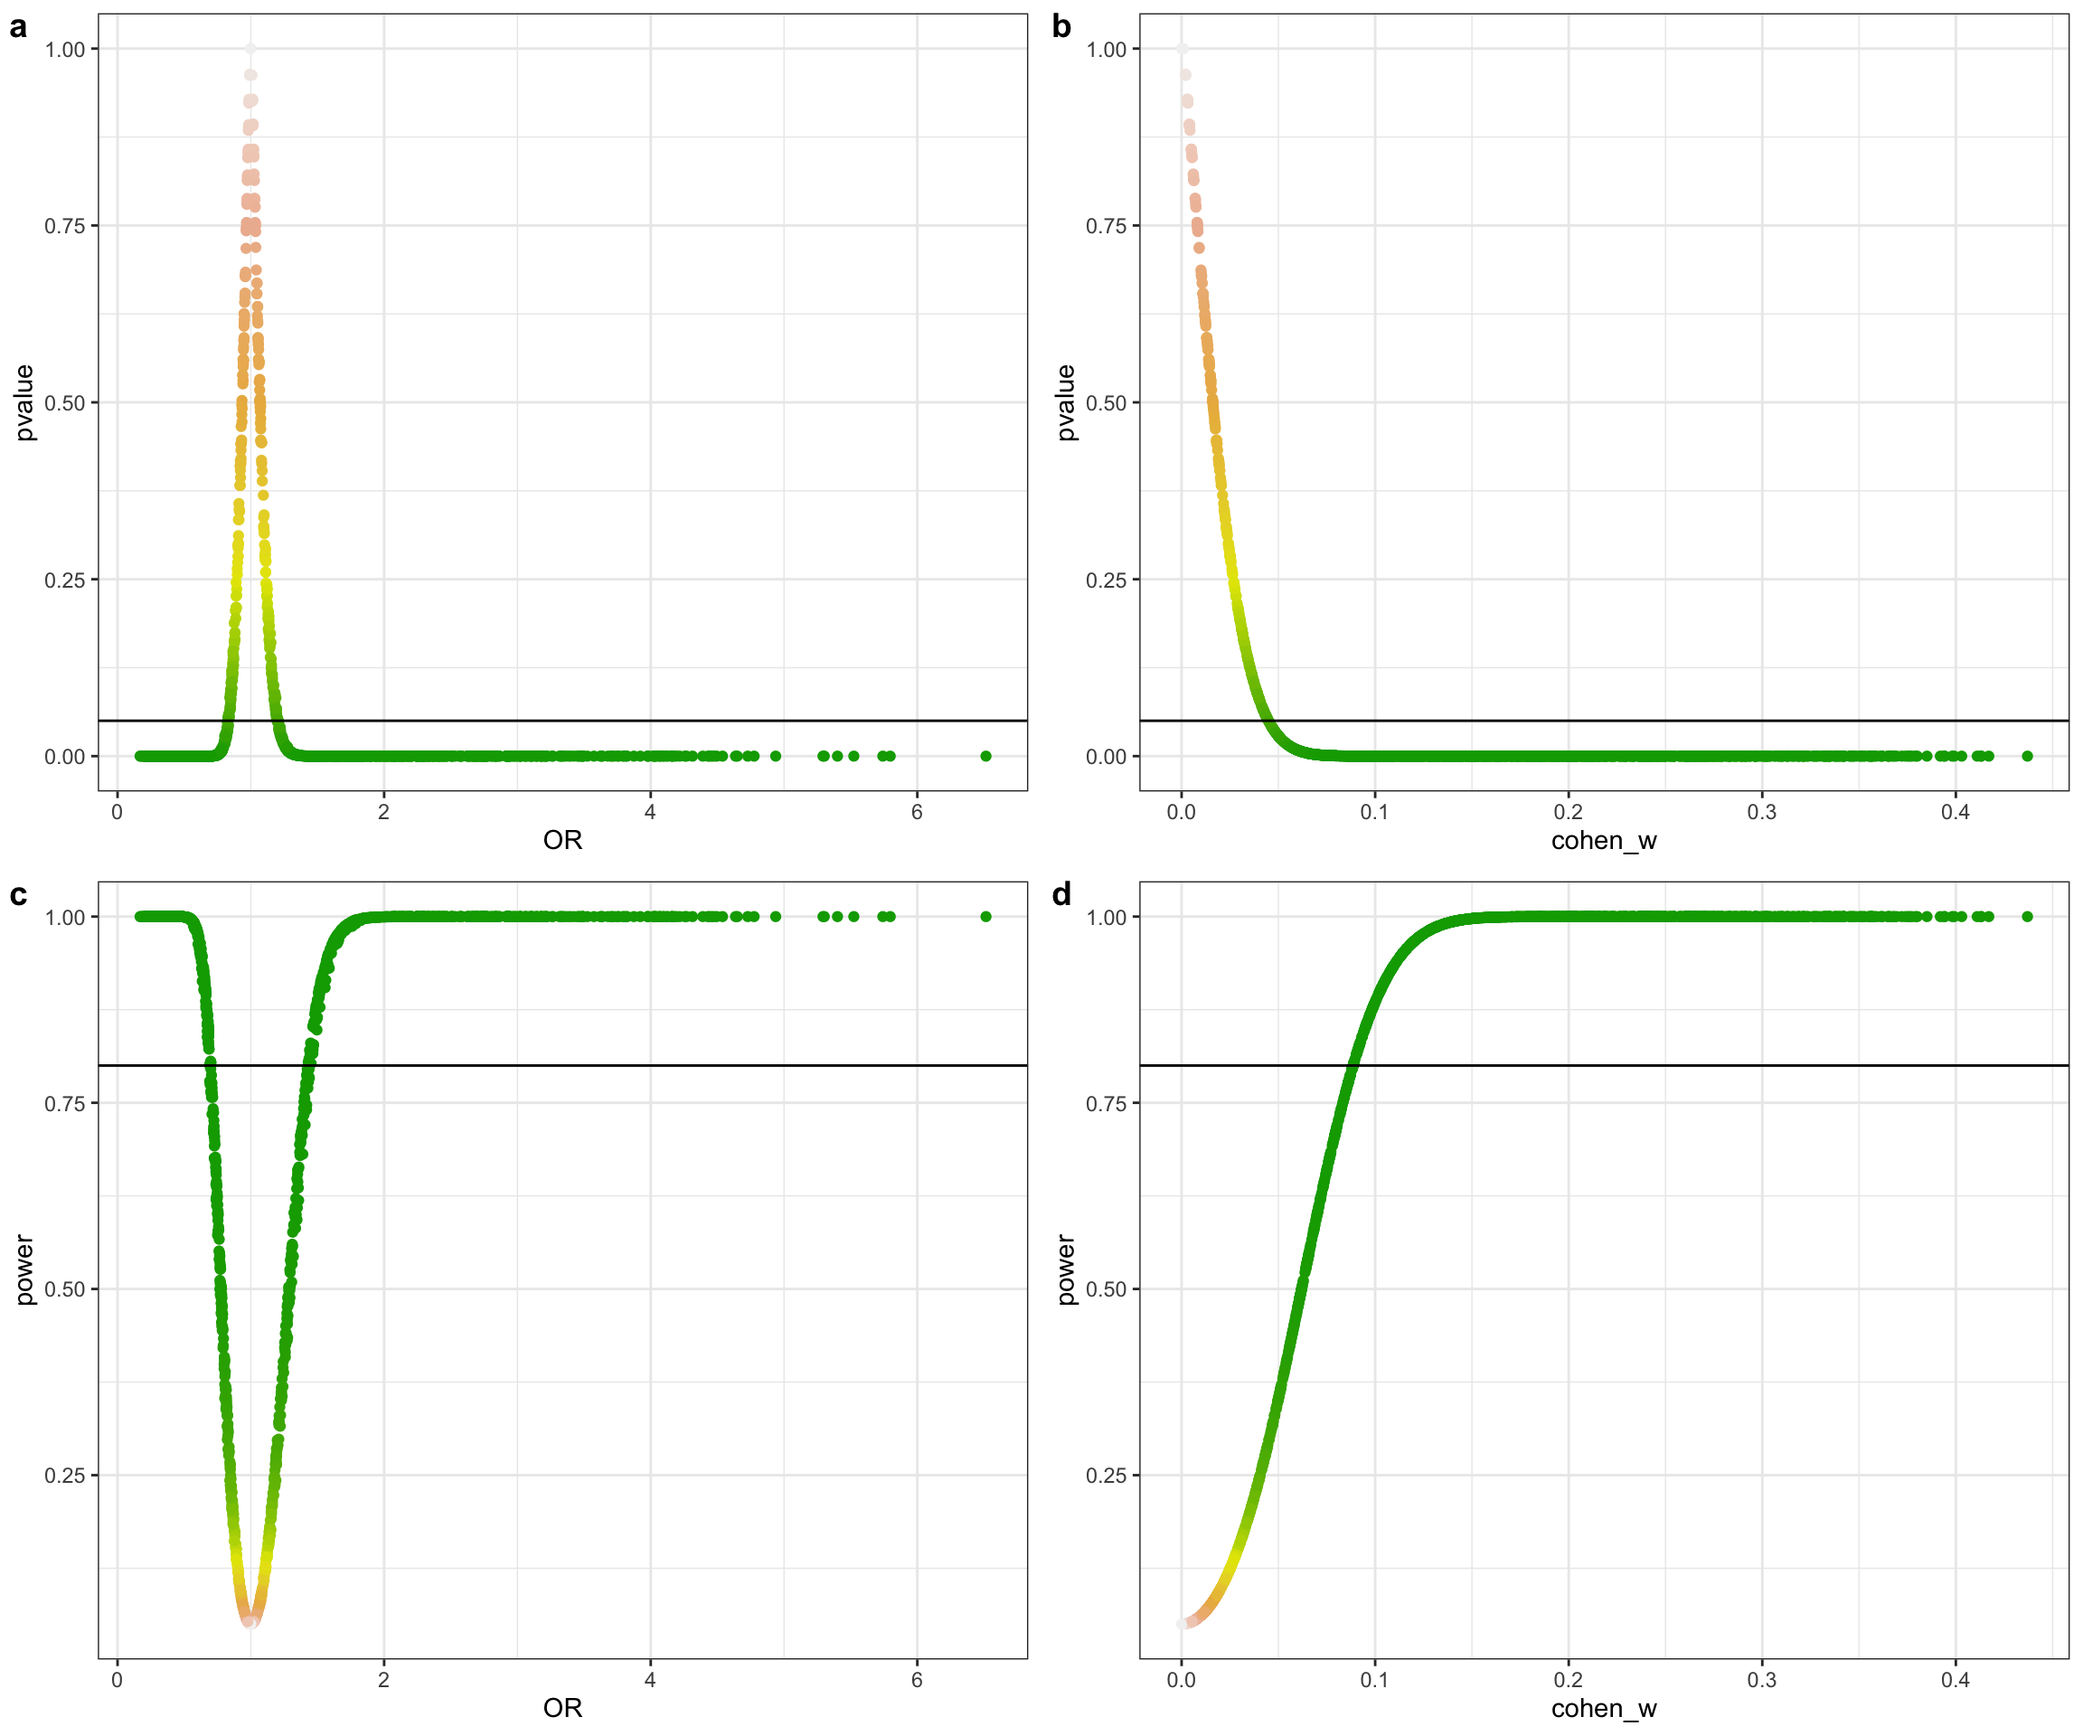
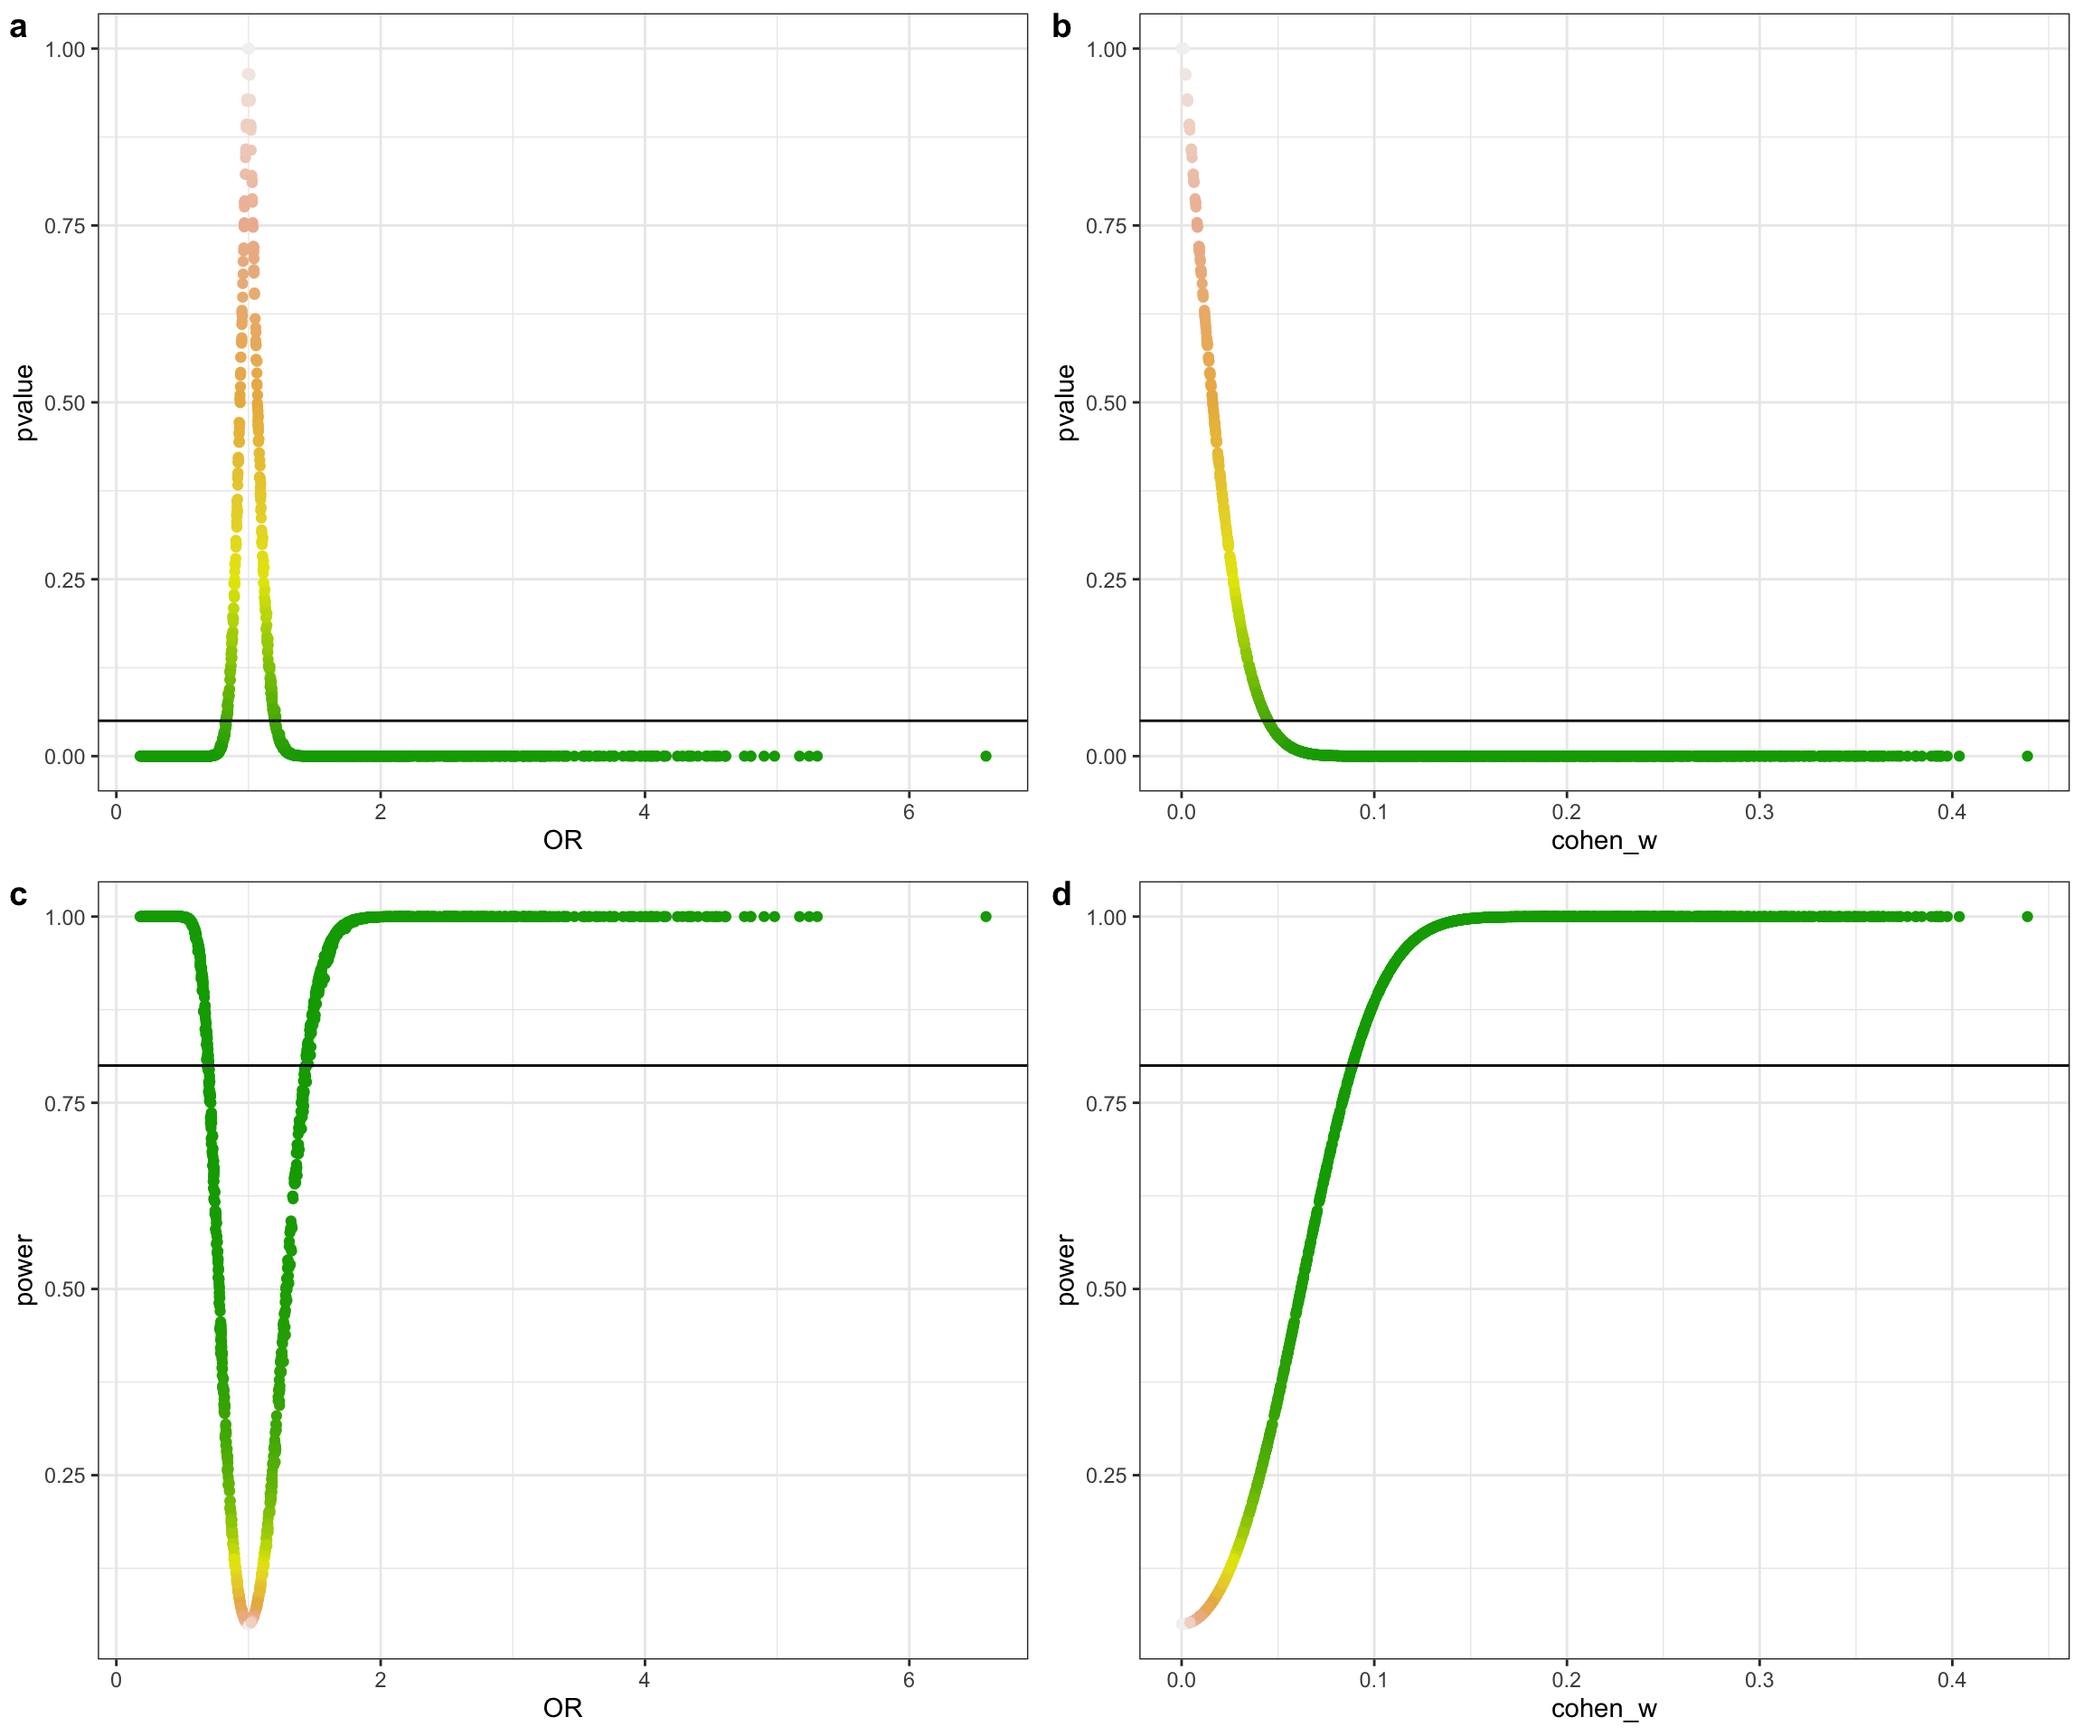
New blog post, post-hoc power

diff --git a/content/post/2020-01-04-playing-with-post-hoc-power-with-r-why-you-shouldn-t-do-it.html b/content/post/2020-01-04-playing-with-post-hoc-power-with-r-why-you-shouldn-t-do-it.html
@@ -209,40 +209,40 @@ power_against_pvalue_extractor &lt;- function(power_versus_pvalue, extracted=NUL
    [1] 1000
    
    $w
-   [1] 0.02700228
+   [1] 0.01600051
    
    $power
-   [1] 0.1367942
+   [1] 0.07980808
    
    $p_value
-   [1] 0.2448889
+   [1] 0.5023213
    
    $OR
-   [1] 1.114097
+   [1] 0.937996
    
    $observed_counts
             
              A=exposed G=unexposed
-     case          507         493
-     control       480         520
+     case          488         512
+     control       504         496
    
    $expected_counts
             
              A=exposed G=unexposed
-     case        493.5       506.5
-     control     493.5       506.5
+     case          496         504
+     control       496         504
    
    $observed_proportions
             
              A=exposed G=unexposed
-     case       0.2535      0.2465
-     control    0.2400      0.2600
+     case        0.244       0.256
+     control     0.252       0.248
    
    $expected_proportions
             
              A=exposed G=unexposed
-     case      0.24675     0.25325
-     control   0.24675     0.25325</code></pre>
+     case        0.248       0.252
+     control     0.248       0.252</code></pre>
 <p>And now we can map this function to all the combinations of proportions we had stored in our data frame (using the wonderful <code>purrr</code> package):</p>
 <pre class="r"><code>mydata &lt;- mydata0 %&gt;%
    # calculate
@@ -290,13 +290,13 @@ OR
 0.3
 </td>
 <td style="text-align:center;">
-0.3531753
+0.1172670
 </td>
 <td style="text-align:center;">
-0.0285551
+0.3086549
 </td>
 <td style="text-align:center;">
-0.8040218
+1.1089799
 </td>
 </tr>
 <tr>
@@ -307,13 +307,13 @@ OR
 0.3
 </td>
 <td style="text-align:center;">
-0.0804399
+0.0665180
 </td>
 <td style="text-align:center;">
-0.4998039
+0.6270413
 </td>
 <td style="text-align:center;">
-1.0721938
+0.9493811
 </td>
 </tr>
 <tr>
@@ -324,13 +324,13 @@ OR
 0.3
 </td>
 <td style="text-align:center;">
-0.1767098
+0.1298227
 </td>
 <td style="text-align:center;">
-0.1605137
+0.2665585
 </td>
 <td style="text-align:center;">
-1.1509480
+1.1185636
 </td>
 </tr>
 </tbody>
@@ -364,6 +364,38 @@ OR
 </thead>
 <tbody>
 <tr>
+<td style="text-align:center;">
+0.41
+</td>
+<td style="text-align:center;">
+0.37
+</td>
+<td style="text-align:center;">
+0.2932704
+</td>
+<td style="text-align:center;">
+0.0505027
+</td>
+<td style="text-align:center;">
+1.1998156
+</td>
+</tr>
+<tr>
+<td style="text-align:center;">
+0.38
+</td>
+<td style="text-align:center;">
+0.43
+</td>
+<td style="text-align:center;">
+0.2944064
+</td>
+<td style="text-align:center;">
+0.0499654
+</td>
+<td style="text-align:center;">
+0.8327473
+</td>
 </tr>
 </tbody>
 </table>

diff --git a/docs/2020/01/playing-with-post-hoc-power/index.html b/docs/2020/01/playing-with-post-hoc-power/index.html
@@ -495,40 +495,40 @@ power_against_pvalue_extractor &lt;- function(power_versus_pvalue, extracted=NUL
    [1] 1000
    
    $w
-   [1] 0.02700228
+   [1] 0.01600051
    
    $power
-   [1] 0.1367942
+   [1] 0.07980808
    
    $p_value
-   [1] 0.2448889
+   [1] 0.5023213
    
    $OR
-   [1] 1.114097
+   [1] 0.937996
    
    $observed_counts
             
              A=exposed G=unexposed
-     case          507         493
-     control       480         520
+     case          488         512
+     control       504         496
    
    $expected_counts
             
              A=exposed G=unexposed
-     case        493.5       506.5
-     control     493.5       506.5
+     case          496         504
+     control       496         504
    
    $observed_proportions
             
              A=exposed G=unexposed
-     case       0.2535      0.2465
-     control    0.2400      0.2600
+     case        0.244       0.256
+     control     0.252       0.248
    
    $expected_proportions
             
              A=exposed G=unexposed
-     case      0.24675     0.25325
-     control   0.24675     0.25325</code></pre>
+     case        0.248       0.252
+     control     0.248       0.252</code></pre>
 <p>And now we can map this function to all the combinations of proportions we had stored in our data frame (using the wonderful <code>purrr</code> package):</p>
 <pre class="r"><code>mydata &lt;- mydata0 %&gt;%
    # calculate
@@ -576,13 +576,13 @@ OR
 0.3
 </td>
 <td style="text-align:center;">
-0.3531753
+0.1172670
 </td>
 <td style="text-align:center;">
-0.0285551
+0.3086549
 </td>
 <td style="text-align:center;">
-0.8040218
+1.1089799
 </td>
 </tr>
 <tr>
@@ -593,13 +593,13 @@ OR
 0.3
 </td>
 <td style="text-align:center;">
-0.0804399
+0.0665180
 </td>
 <td style="text-align:center;">
-0.4998039
+0.6270413
 </td>
 <td style="text-align:center;">
-1.0721938
+0.9493811
 </td>
 </tr>
 <tr>
@@ -610,13 +610,13 @@ OR
 0.3
 </td>
 <td style="text-align:center;">
-0.1767098
+0.1298227
 </td>
 <td style="text-align:center;">
-0.1605137
+0.2665585
 </td>
 <td style="text-align:center;">
-1.1509480
+1.1185636
 </td>
 </tr>
 </tbody>
@@ -650,6 +650,38 @@ OR
 </thead>
 <tbody>
 <tr>
+<td style="text-align:center;">
+0.41
+</td>
+<td style="text-align:center;">
+0.37
+</td>
+<td style="text-align:center;">
+0.2932704
+</td>
+<td style="text-align:center;">
+0.0505027
+</td>
+<td style="text-align:center;">
+1.1998156
+</td>
+</tr>
+<tr>
+<td style="text-align:center;">
+0.38
+</td>
+<td style="text-align:center;">
+0.43
+</td>
+<td style="text-align:center;">
+0.2944064
+</td>
+<td style="text-align:center;">
+0.0499654
+</td>
+<td style="text-align:center;">
+0.8327473
+</td>
 </tr>
 </tbody>
 </table>
